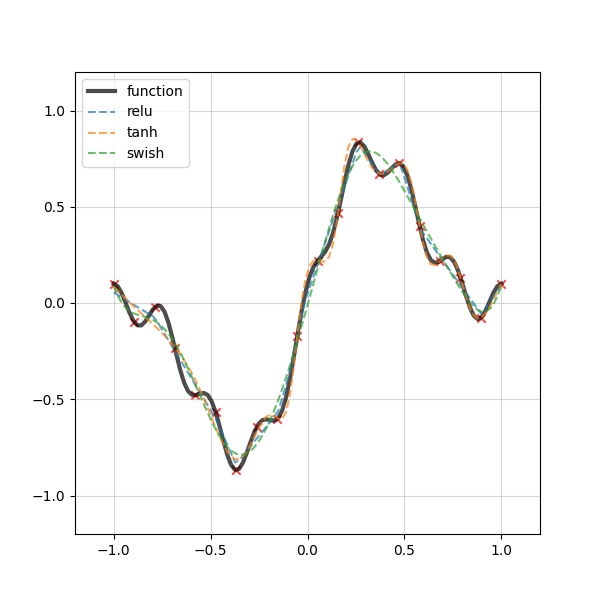
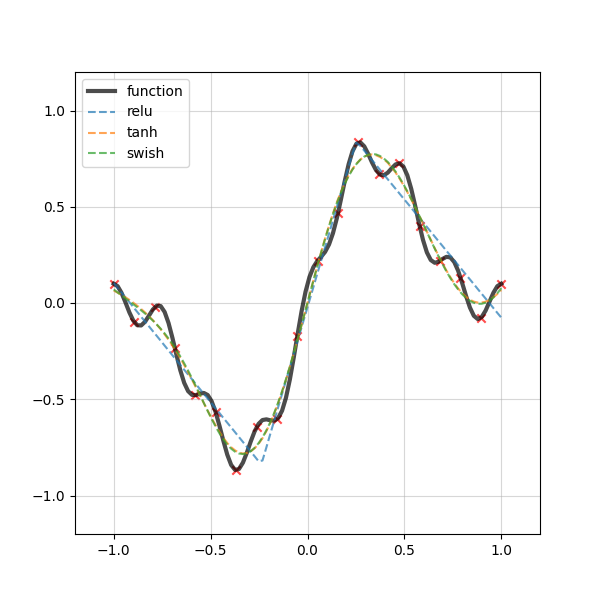
add code

Changed region(s): [[0.54, 0.24, 0.84, 0.54], [0.3, 0.42, 0.54, 0.78], [0.18, 0.48, 0.3, 0.6]]

diff --git a/00_tf2/main.py b/00_tf2/main.py
@@ -17,16 +17,15 @@ def main():
     config_gpu(gpu_flg)
 
     # problem setup
-    p_id = 0
+    p_id = 2
     xmin = -1.
     xmax =  1.
     nx   = 100
+    nx_  = int(nx / 5)
 
     # params
     f_in   = 1
     f_out  = 1
-    f_hid  = 2 ** 4
-    depth  = 3
     f_hid  = 5
     depth  = 3
     w_init = "Glorot"
@@ -36,10 +35,13 @@ def main():
     f_scl  = "minmax"
     d_type = "float32"
     r_seed = 1234
+    n_epc  = int(1e5)
+    n_btc  = -1
+    c_tol  = 1e-8
 
     # prepare data
     x = np.linspace(xmin, xmax, nx)
-    x_train = np.linspace(xmin, xmax, int(nx / 5)).reshape(-1, 1)
+    x_train = np.linspace(xmin, xmax, nx_).reshape(-1, 1)
     x_train = tf.convert_to_tensor(x_train, dtype=d_type)
     x_infer = np.linspace(xmin, xmax, nx).reshape(-1, 1)
     x_infer = tf.convert_to_tensor(x_infer, dtype=d_type)
@@ -56,7 +58,7 @@ def main():
     else:
         raise NotImplementedError(">>>>> p_id")
 
-    # define model, train, and infer relu model
+    # define, train, and infer relu model
     act = "relu"
     model_relu = DNN(
         x_train, y_train, 
@@ -66,10 +68,11 @@ def main():
         d_type, r_seed
     )
     with tf.device("/device:GPU:0"):
-        model_relu.train(n_epc = int(1e4), n_btc = -1, c_tol = 1e-5)
+        model_relu.train(n_epc, n_btc, c_tol)
+    # model_relu.save("./saved_model/model_relu")
     y_relu = model_relu.infer(x_infer)
 
-    # define model, train, and infer tanh model
+    # tanh model
     act = "tanh"
     model_tanh = DNN(
         x_train, y_train, 
@@ -79,10 +82,10 @@ def main():
         d_type, r_seed
     )
     with tf.device("/device:GPU:0"):
-        model_tanh.train(n_epc = int(1e4), n_btc = -1, c_tol = 1e-5)
+        model_tanh.train(n_epc, n_btc, c_tol)
     y_tanh = model_tanh.infer(x_infer)
 
-    # define model, train, and infer swish model
+    # swish model
     act = "swish"
     model_swish = DNN(
         x_train, y_train, 
@@ -92,7 +95,7 @@ def main():
         d_type, r_seed
     )
     with tf.device("/device:GPU:0"):
-        model_swish.train(n_epc = int(1e4), n_btc = -1, c_tol = 1e-5)
+        model_swish.train(n_epc, n_btc, c_tol)
     y_swish = model_swish.infer(x_infer)
 
     # compare
